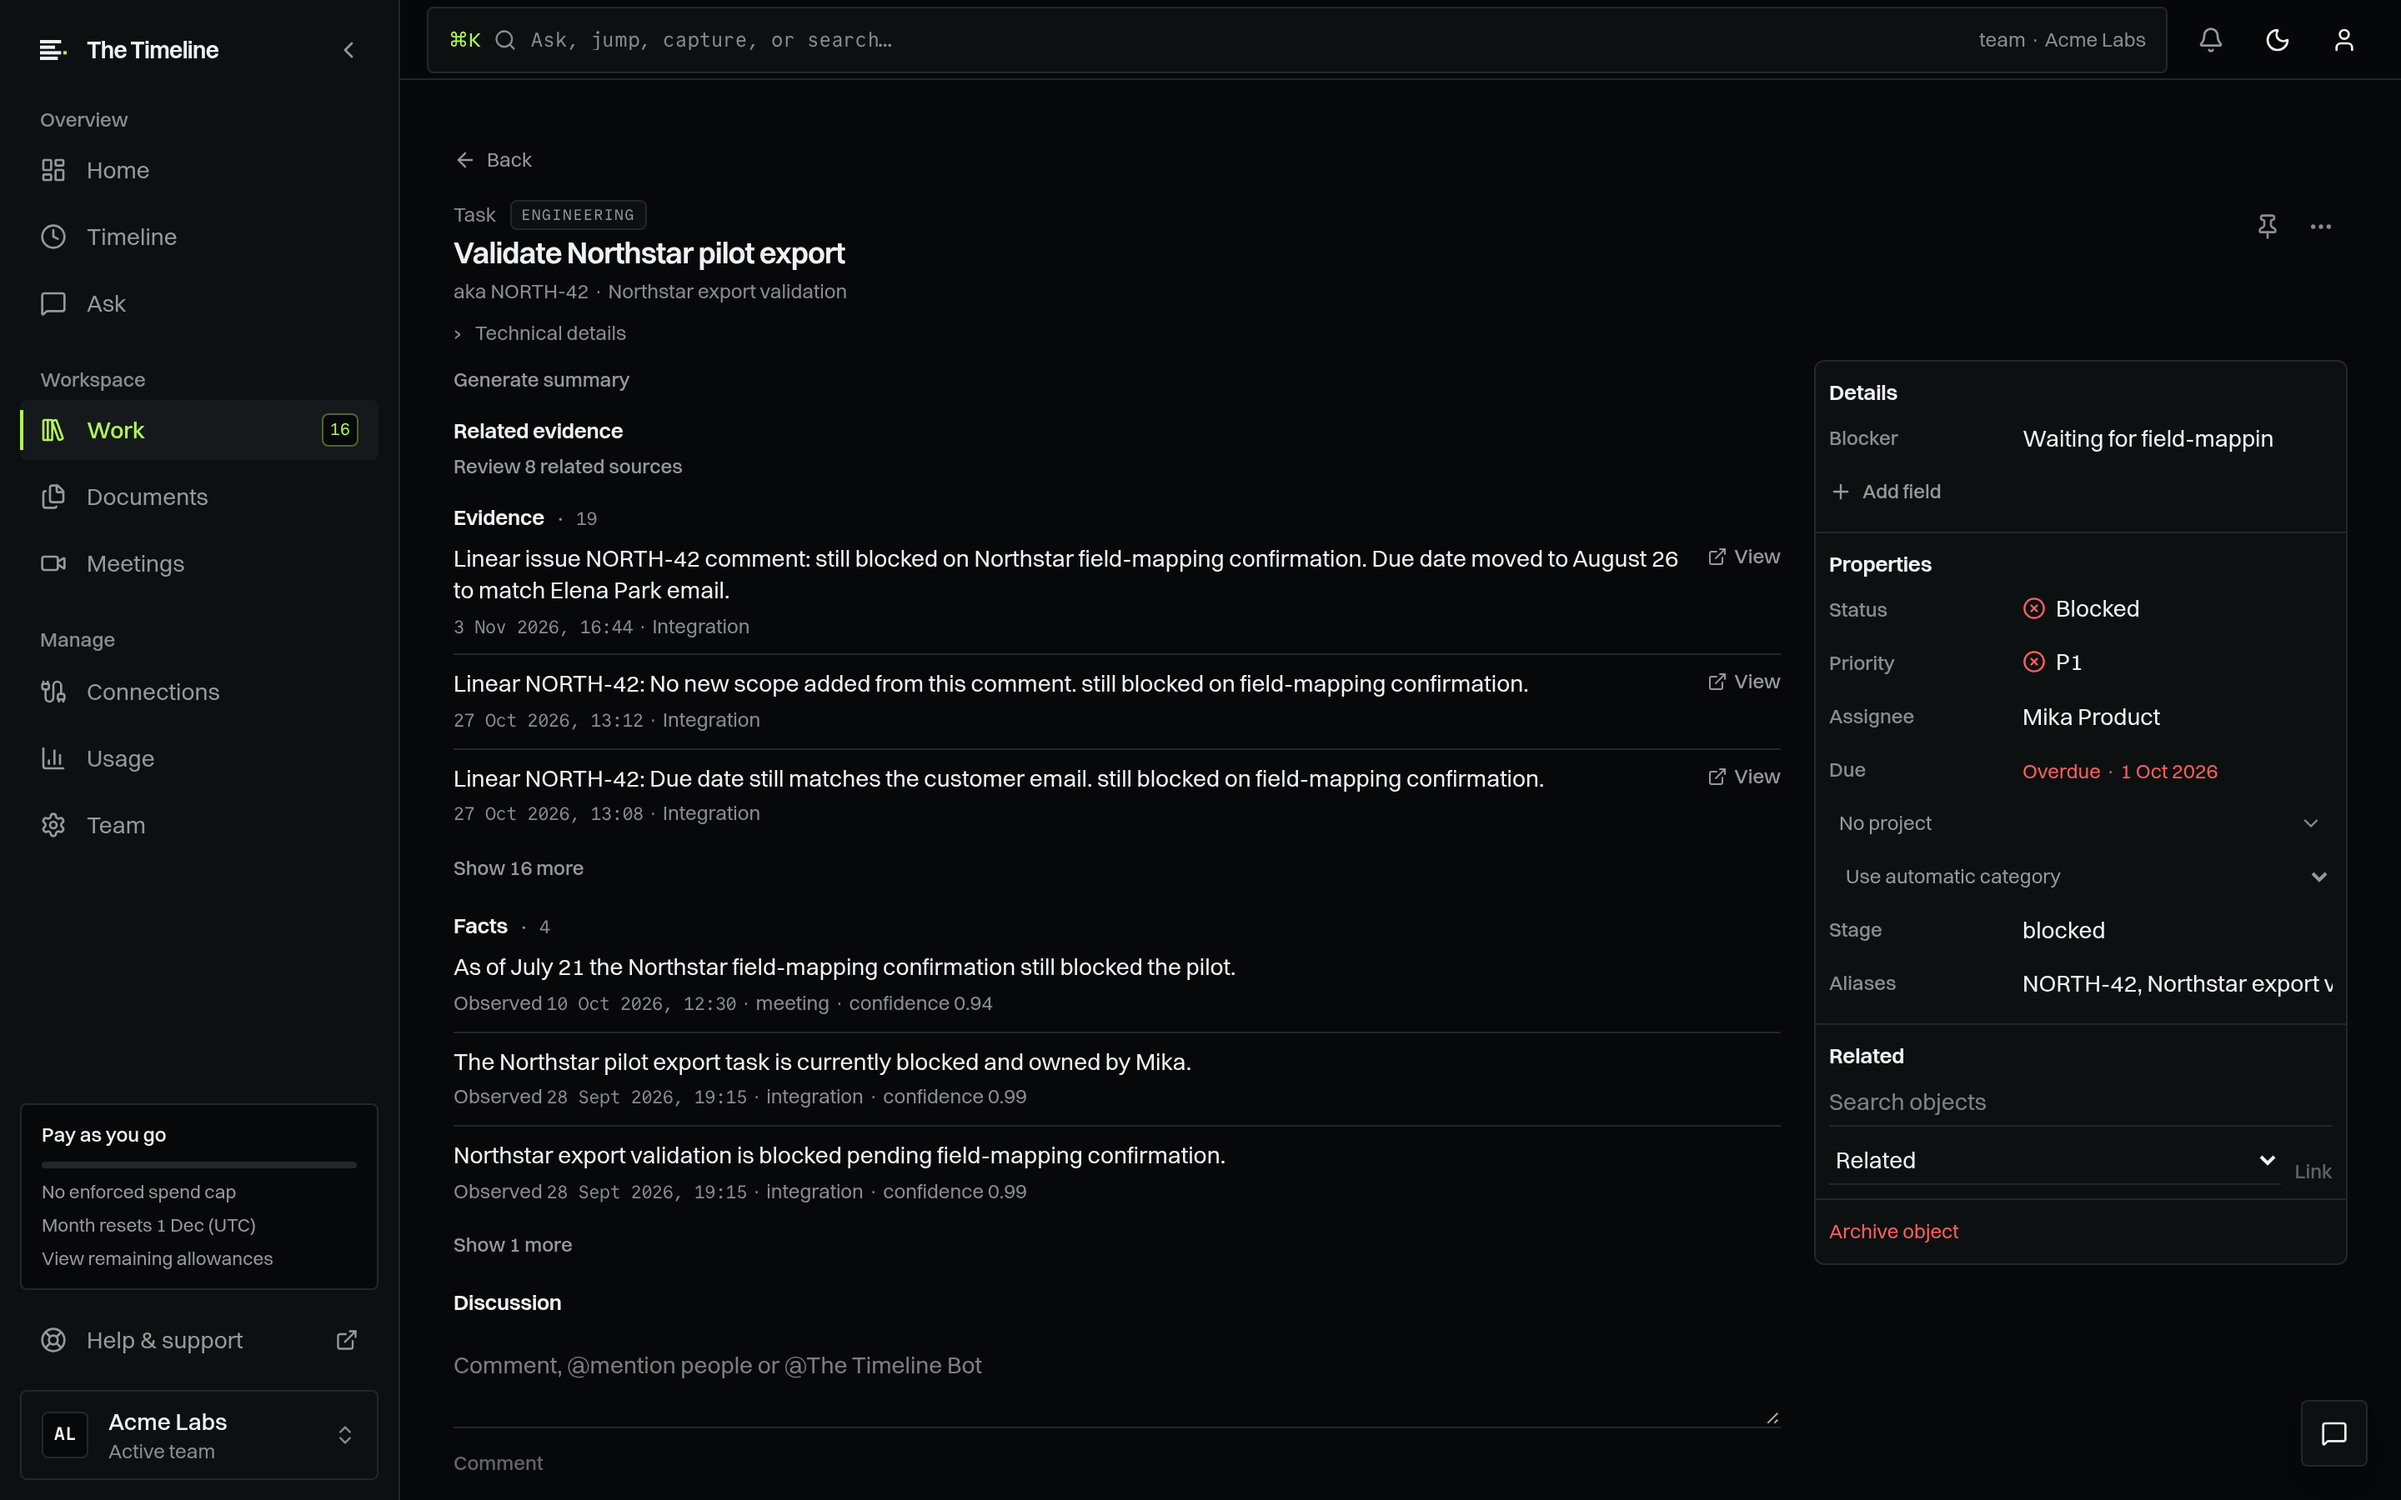
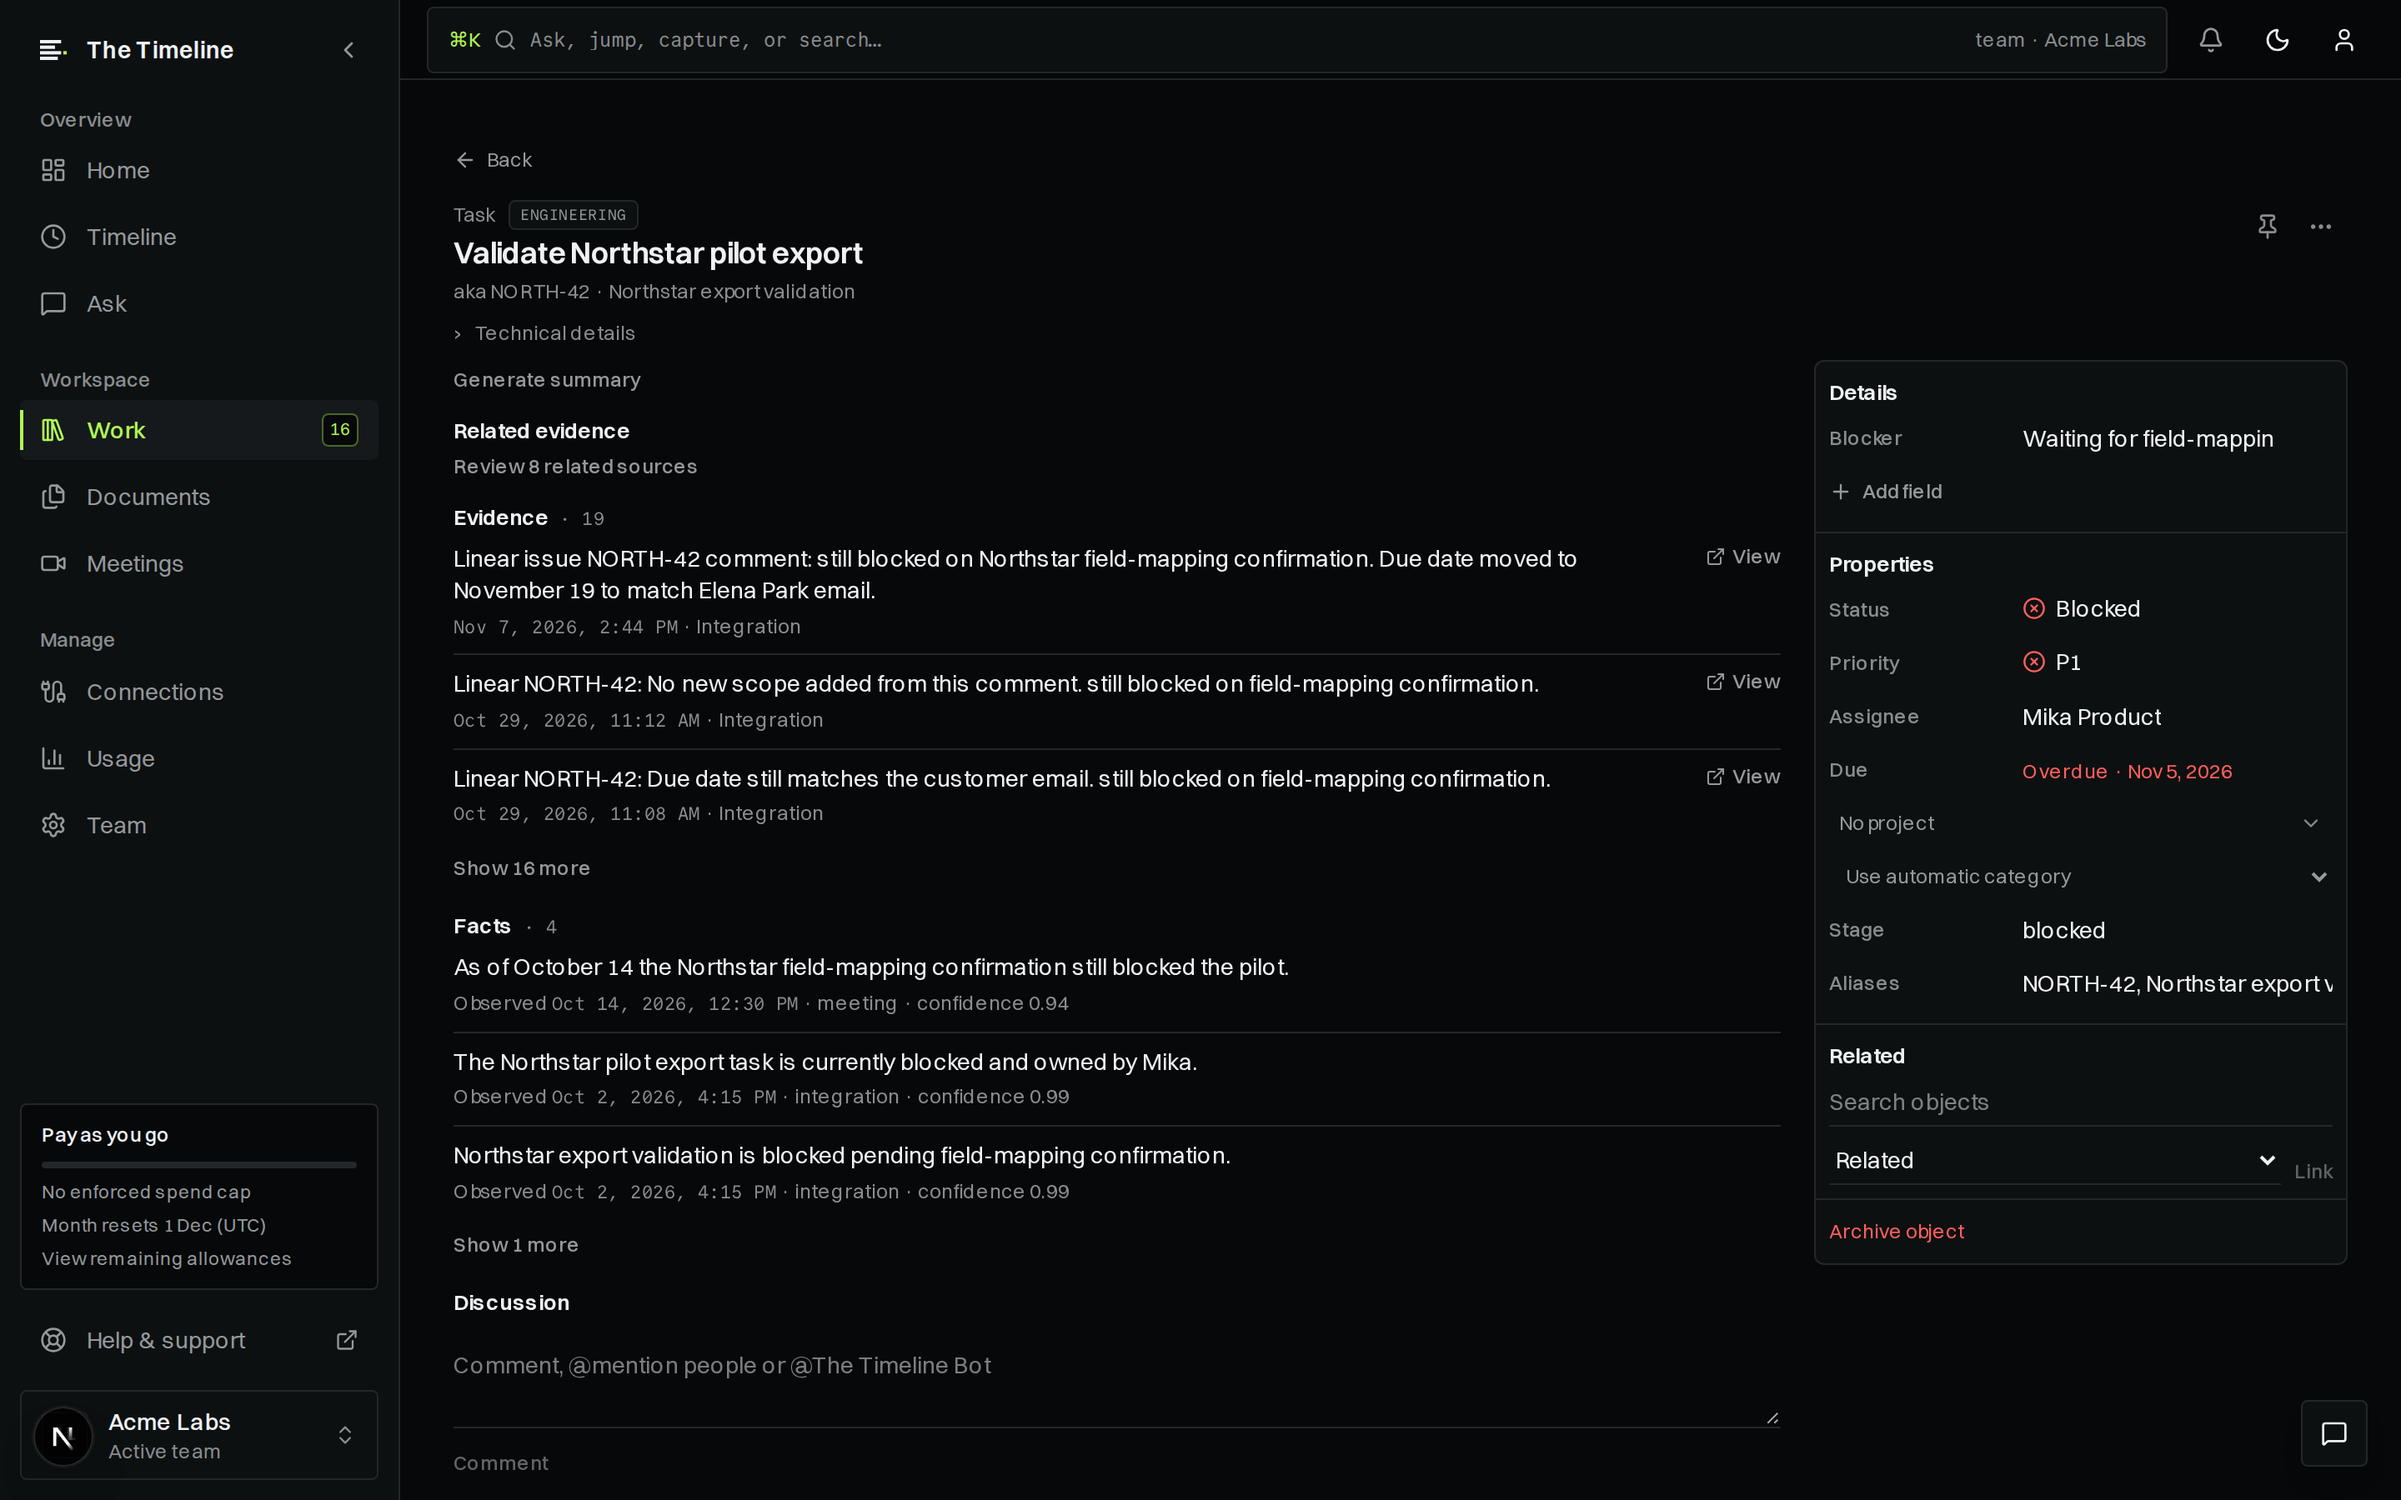
Recapture stale public product screenshots from the current Acme Labs seed.
Replace August/clipped dealflow, overdue-looking tasks, Ask, Agent tools,
and the Northwind email inspector with 1440×900@2x captures from the local
fictional demo so public pages show complete lanes and relative November dates.

diff --git a/apps/web/public/marketing/screenshots/README.md b/apps/web/public/marketing/screenshots/README.md
@@ -2,7 +2,7 @@
 
 Place the Product Screenshots files named in the website copy plan here, using the exact filenames (for example `11-timeline-dark.png`).
 
-Marketing pages look up each file by name. If a file is missing, the page shows a labeled placeholder with that filename so the slot stays easy to swap. `screenshot-inventory.test.ts` also fails when any referenced public marketing file is absent, so a missing asset cannot ship as a silent placeholder.
+Marketing pages look up each file by name and serve that PNG as-is. If a file is missing, the page shows a labeled placeholder with that filename so the slot stays easy to swap. `screenshot-inventory.test.ts` also fails when any referenced public marketing file is absent, so a missing asset cannot ship as a silent placeholder.
 
-Do not commit customer data. The committed set is from a fictional Acme Labs `demo:seed` capture (November 2026 numbered citations). Ask screenshots are stored seed answers, not live generated proof. Keep the fictional-example label on every public product shot.
+Do not commit customer data. The committed set is from a fictional Acme Labs `demo:seed` capture (November 2026 numbered citations). Recapture overdue, dealflow, Ask, and Agent tools slots from a current seed rather than keeping August/clipped library files. Ask screenshots are stored examples from that demo. Keep the fictional-example label on every public product shot.
 
